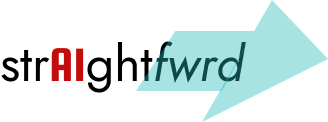
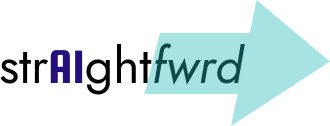
Created UI

Changed region(s): [[0.0, 0.0, 1.0, 1.0]]

diff --git a/popup.css b/popup.css
@@ -5,10 +5,73 @@
   }
 
 .images-straightfwrd{
-    position: absolute;
+    display: block;
+    margin-left: auto;
+    margin-right: auto;
     width: 328px;
-    height: 124px;
+    height: 130px;
     background-image: url(images/strAIghtfwrd.png);
     background-size: 100%;
     background-repeat: no-repeat;
+}
+.inputBox{
+    background: rgba(217, 217, 217, 0.5);
+    color: #666666;
+    padding: 1em;
+    border-radius: 10px;
+    border: 1px solid transparent;
+    outline: none;
+    font-size: 16px;
+    width: 363px;
+    height: 262px;
+    margin-left: 145px;
+    margin-top: 10px;
+    resize: none;
+    transition: all 0.2s;
+    
+}
+.inputBox:hover {
+    cursor: pointer;
+    background: rgba(217, 217, 217, 0.65);
+    border: 1px solid rgba(98, 97, 97, 0.72);
+}
+
+.inputBox:focus {
+    cursor: text;
+    color: #333333;
+    background: rgba(217, 217, 217, 0.65);
+    border: 1px solid rgba(98, 97, 97, 0.72);
+}
+.clear {
+    display: inline-block;
+    width: 140px;
+    height: 35px;
+    margin-top: 25px;
+    margin-left: 165px;
+    margin-bottom: 0;
+    border: 1px solid transparent;
+    padding: 6px 12px;
+    font-family: 'Raleway';
+    font-style: normal;
+    font-weight: 700;
+    font-size: 20px;
+    line-height: 23px;
+    text-align: center;
+    cursor: pointer;
+    border-radius: 10px;
+    color: #333333;
+    background: #57A0D3;
+}
+
+.submit {
+    margin-left: 75px;
+    top: 446px;
+}
+
+.clear:hover, 
+.clear:focus, 
+.clear:active {
+    color: #333333;
+    background-color: #4988b2;
+    border: 1px solid rgba(98, 97, 97, 0.72);
 }

diff --git a/index.html b/index.html
@@ -5,17 +5,22 @@
     <meta name="viewport" content="width=device-width, initial-scale=1.0">
     <title>JamHacks7 Project</title>
     <link rel="stylesheet" type="text/css" href="popup.css">
+    <link rel="stylesheet" href="https://fonts.googleapis.com/css2?family=Raleway&display=swap">
 </head>
 <body>
     <div class = "popup">
+        <!--
         <h2>Jamhacks 7</h2>
         Enter Terms and Services
         <br>
         <input type="textarea" id="userInput" placeholder="Paste terms here...">
         <br>
-        <button id="submit">Simplify!</button>
         <div id="message"></div> 
+        -->
         <div class = "images-straightfwrd"></div>
+        <textarea class = "inputBox" id = "userInput" placeholder="Enter Prompt Here..."></textarea>
+        <button class = "clear">Clear</button>
+        <button class = "clear submit">Simplify</button>
     </div>
     <script src="popup.js" type="module"></script>
 </body>
